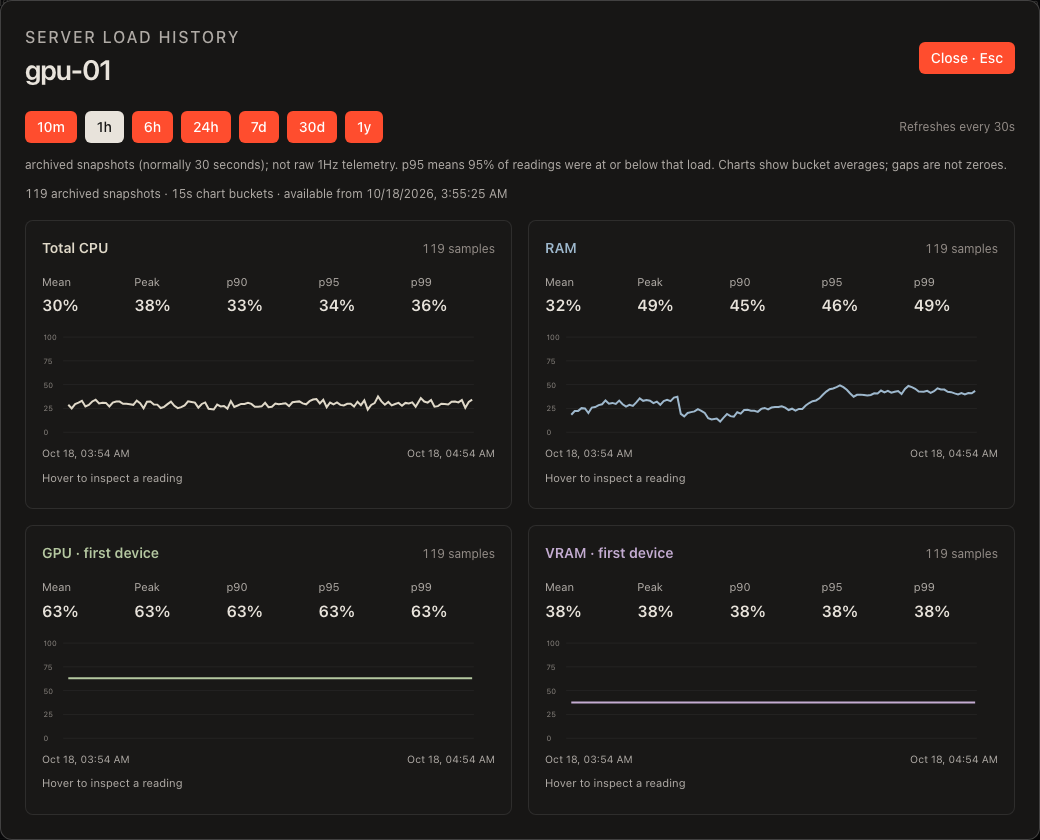
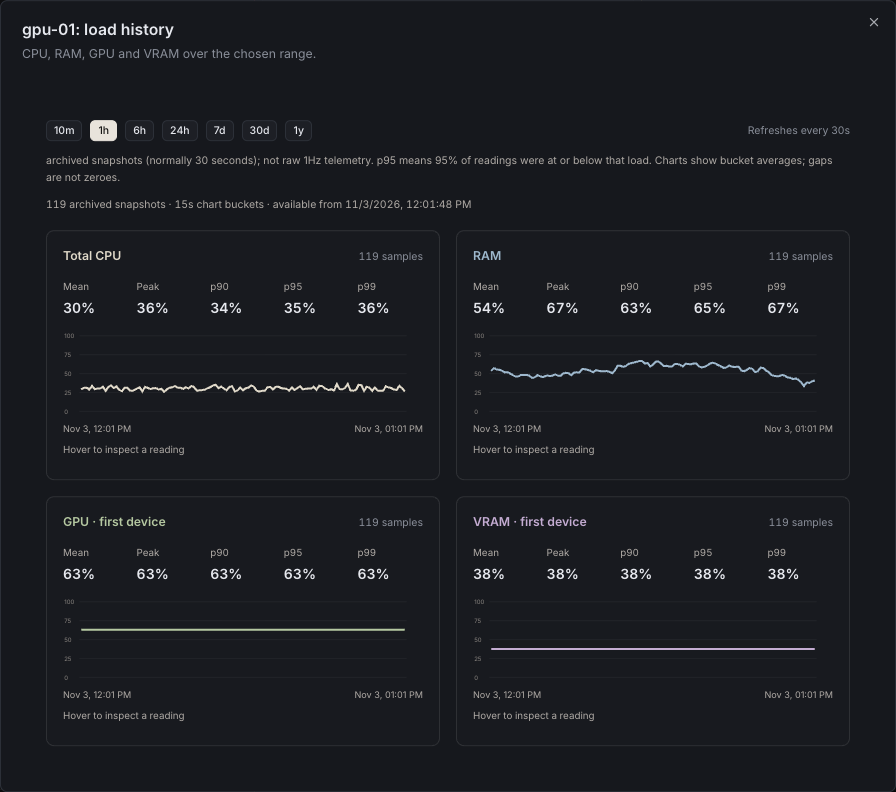
docs: retake the screenshots from the Next.js web app, record the list rework

diff --git a/docs/screenshots/README.md b/docs/screenshots/README.md
@@ -5,11 +5,11 @@ fleet** rather than a production installation: the hosts, websites, container
 names and measurements all come from `superboard/mockagent`. Nothing here is
 hand-drawn, and no production database is opened.
 
-| Image            | Shows                                                                                                                                                                                                                                                              |
-| ---------------- | ------------------------------------------------------------------------------------------------------------------------------------------------------------------------------------------------------------------------------------------------------------------ |
-| `superboard.png` | The wall board: eight demo servers, per-core CPU squares, RAM/Disk rows, container rows, linked-website chips, update states and agent warnings.                                                                                                                   |
-| `dashboard.png`  | The operator board: status summary, the Needs-attention section, and the grouped list with 24 h heartbeat strips. The mock fleet is only minutes old, so a day of demo history (with a few outages) was written into the disposable dev database before capturing. |
-| `history.png`    | The server history dialog on the 1h range: CPU, RAM, GPU and VRAM with mean, peak and p90/p95/p99.                                                                                                                                                                 |
+| Image            | Shows                                                                                                                                                                                                                                                                             |
+| ---------------- | --------------------------------------------------------------------------------------------------------------------------------------------------------------------------------------------------------------------------------------------------------------------------------- |
+| `superboard.png` | The wall board: eight demo servers, per-core CPU squares, RAM/Disk rows, container rows, linked-website chips, update states and agent warnings.                                                                                                                                  |
+| `dashboard.png`  | The operator board (`/monitors`): the status summary bar and the grouped list, with group health bars and 24 h heartbeat strips. The mock fleet is only minutes old, so a day of demo history (with a few outages) was written into the disposable dev database before capturing. |
+| `history.png`    | The server history dialog on the 1h range: CPU, RAM, GPU and VRAM with mean, peak and p90/p95/p99.                                                                                                                                                                                |
 
 ## Regenerating
 
@@ -27,11 +27,9 @@ a session cookie, waits for the mock fleet to be painted, and writes the three
 PNGs at 1920×1080 with device scale factor 1. It touches nothing but those
 files.
 
-The images were taken before the switch from the Vite dashboard to the Next.js
-web app. The Superboard kept its look; `dashboard.png` still shows the old
-operator board (with its Needs-attention section, now the Attention page). The
-script has been updated for the web app (port, routes, sign-in, the history
-dialog) but not yet rerun.
+All three images were retaken from the Next.js web app after the Caddy cutover
+and the monitor-list rework (tree guides, group health bars). The capture
+script hides the Next dev server's corner indicator.
 
 Two caveats when regenerating:
 

diff --git a/docs/deployment.md b/docs/deployment.md
@@ -313,6 +313,7 @@ minutes and only real outages page.
 | 2026-10-28 | Agent 1.8.2: the buffer queues one sample per 30 s, so an outage backlog drains in minutes (after the 2026-10-27/28 power cuts the client hosts stayed ~5 h stale; their queues were cleared by hand). Rollback tag `office-prev-20261028-111008`.                                                                                                                                                                                                                         |
 | 2026-10-31 | Backend for the new admin panel: member accounts and server-side sessions (migration 0017), sign-in limits, tokens remember their maker, `notificationIds` on the monitor read. The image still serves the old dashboard; the new web app (`apps/web`) goes live at the Caddy cutover. Agents unchanged (1.8.2, backup 0.3.2). Rollback tag `office-prev-20261031-070101`.                                                                                                 |
 | 2026-10-31 | Caddy cutover: three containers (`caddy` on `127.0.0.1:3001`, the backend unpublished, `web` = the Next.js admin panel from `apps/web`); the old Vite dashboard is gone from the image and the tree. No migrations; agents unchanged (1.8.2, backup 0.3.2). Commit `945b7cbc`. Rollback tags `office-prev-20261031-120110` (backend only: web and Caddy had no earlier image), old compose file `compose.rust.prev-20261031-120110.yaml`, backup `pre-20261031-120110.db`. |
+| 2026-11-03 | Monitor list rework (tree guides, group health bars, status word only when unhealthy); docs screenshots retaken. Web image only: no backend, database or agent change (1.8.2, backup 0.3.2). Commit `5a116fe9`. Rollback tag `artchsh/flatline-web:office-prev-20261103-072454`.                                                                                                                                                                                           |
 
 Each release is also recorded in [history](history.md) with the defects it fixed.
 
